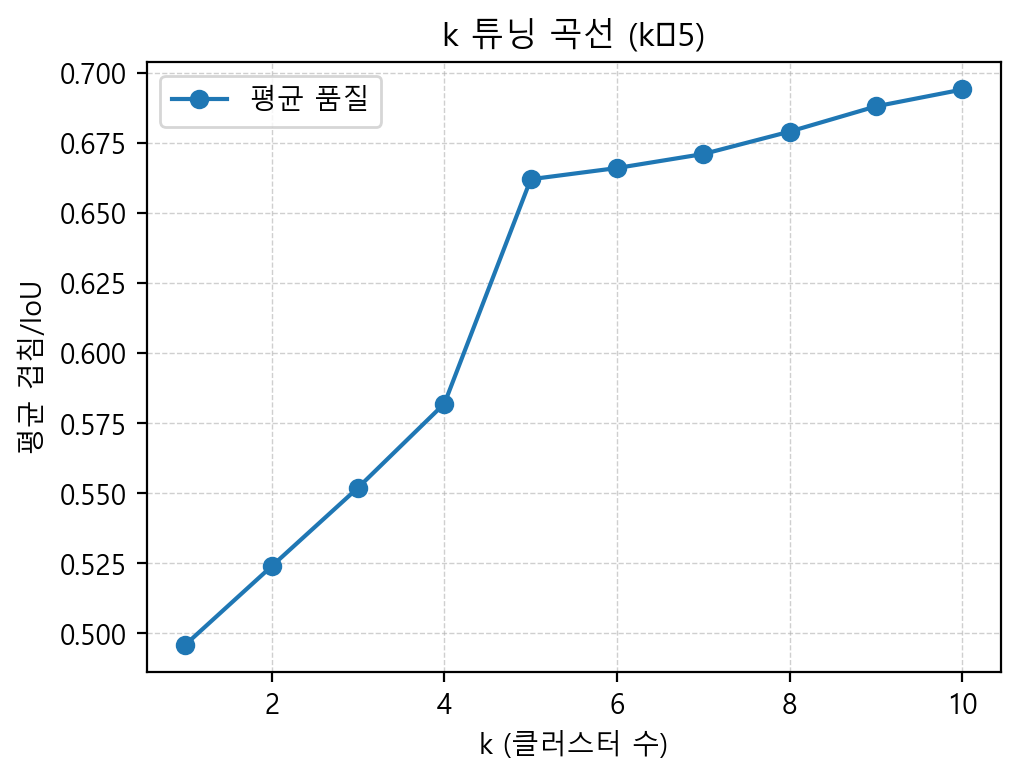
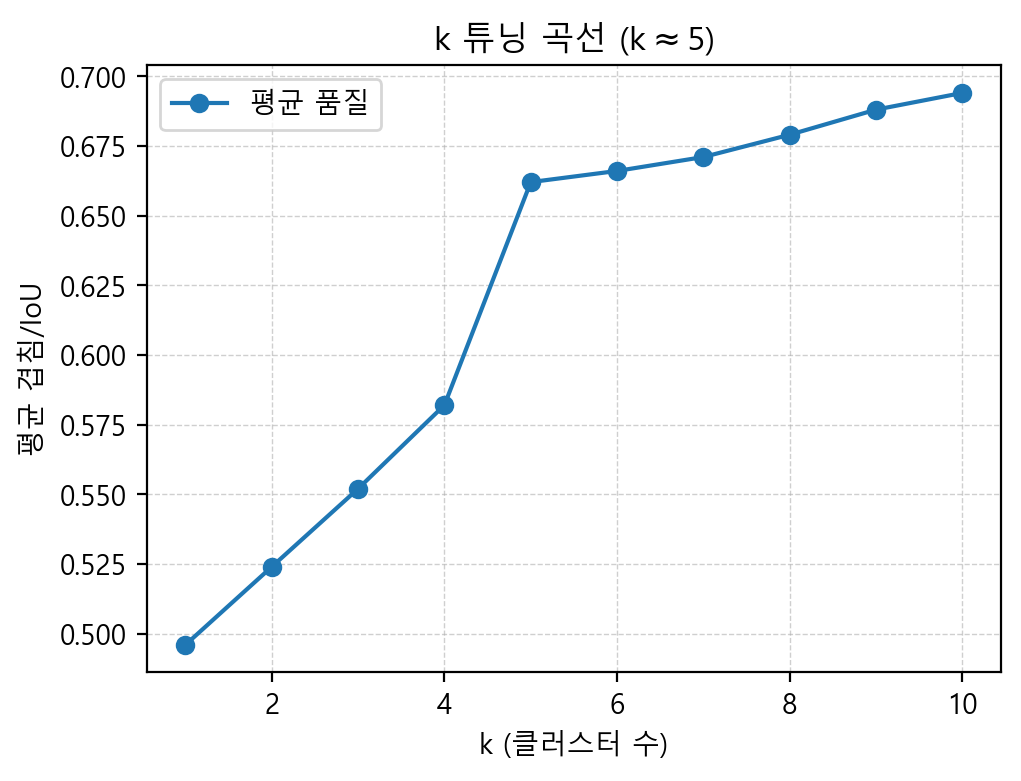
11

diff --git a/polo-system/viz/app.py b/polo-system/viz/app.py
@@ -14,6 +14,27 @@ mpl.rcParams["savefig.dpi"] = 220
 mpl.rcParams["figure.dpi"]  = 220
 mpl.rcParams["axes.unicode_minus"] = False
 
+_MT_MAP = {
+    "≈": r"$\approx$", "×": r"$\times$", "∈": r"$\in$",
+    "→": r"$\rightarrow$", "≥": r"$\geq$", "≤": r"$\leq$", "−": "-"
+}
+def _mt(s):
+    if not isinstance(s, str):
+        return s
+    out = s
+    for k, v in _MT_MAP.items():
+        out = out.replace(k, v)
+    return out
+
+def _mtexify_value(v):
+    if isinstance(v, str):
+        return _mt(v)
+    if isinstance(v, dict):
+        return {k: _mtexify_value(x) for k, x in v.items()}
+    if isinstance(v, list):
+        return [_mtexify_value(x) for x in v]
+    return v
+
 def _setup_matplotlib_fonts():
     # (1) 한국어 본문 후보
     kr_candidates = (
@@ -117,7 +138,7 @@ def render_from_spec(spec_list, outdir, target_lang: str = "ko", bilingual: str 
     spec_list: [{ id, type, labels?, caption_labels?, inputs: {...} }, ...]
     """
     _ensure_grammars_loaded() # 시각화 기법 로드
-    _setup_matplotlib_fonts() # 폰트 한글화
+     # 폰트 한글화
     _prepare_outdir(outdir, clear=clear_outdir) # 이전 출력물 제거
     opts = make_opts(target_lang=target_lang, bilingual=bilingual)
     os.makedirs(outdir, exist_ok=True)
@@ -128,6 +149,7 @@ def render_from_spec(spec_list, outdir, target_lang: str = "ko", bilingual: str 
         raw_inputs = deepcopy(item.get("inputs", {}))      # 원본 보존
         raw_inputs = _inject_labels_into_inputs(item, raw_inputs, opts)
         inputs = _localize_inputs(raw_inputs, opts)        # ko/en 딕셔너리를 문자열로 변환
+        inputs = _mtexify_value(inputs)   
 
         # 필수 입력 자동 채움(기존 로직 유지)
         for need in getattr(g, "needs", []):
